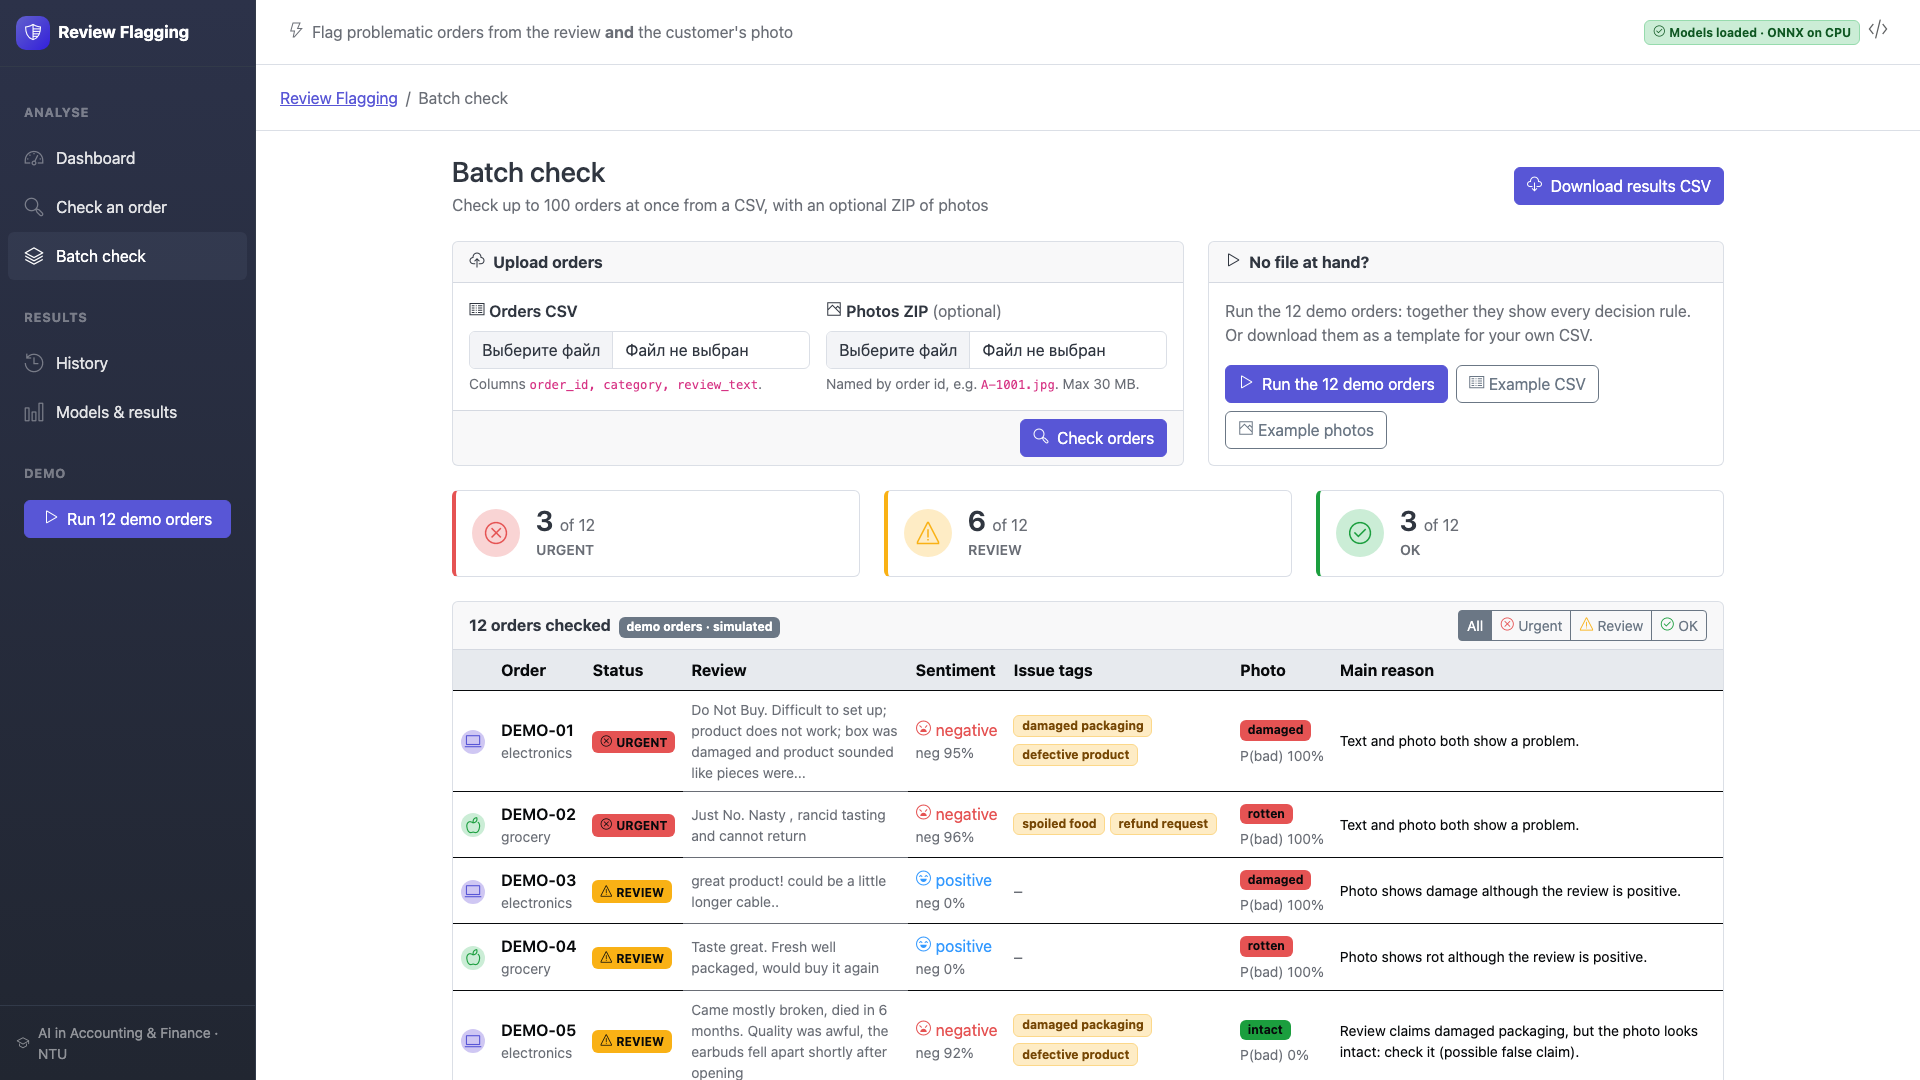
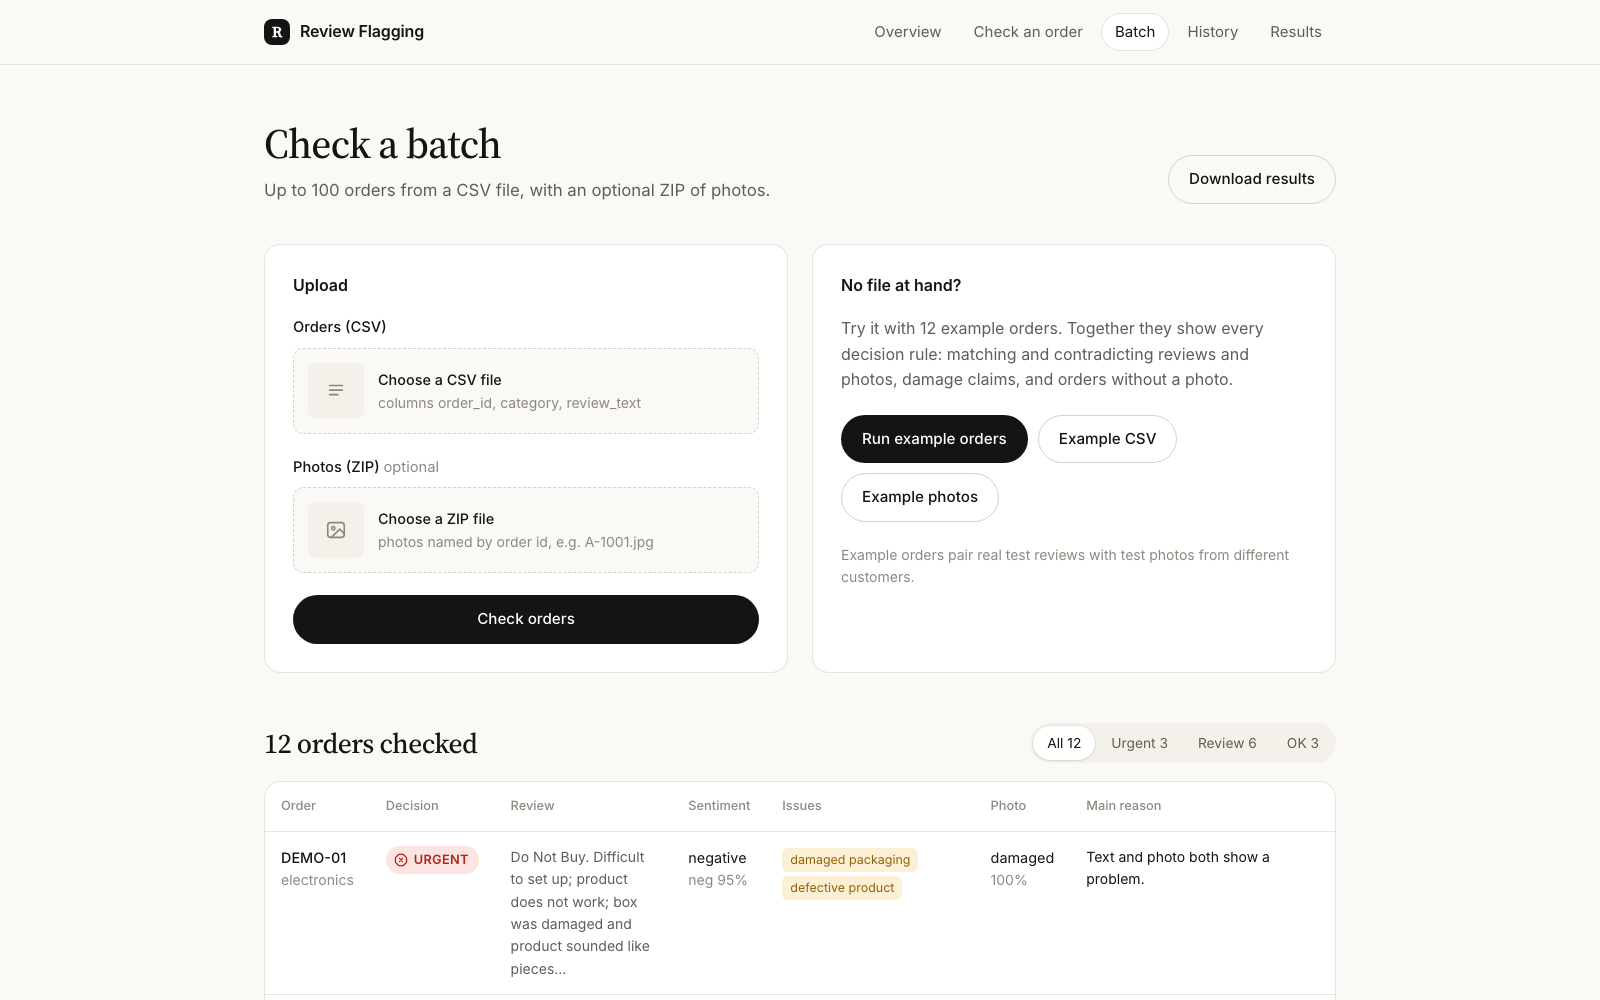
Polish: clearer comments, no internal references in public code, refreshed screenshots

diff --git a/scripts/make_notebooks.py b/scripts/make_notebooks.py
@@ -335,7 +335,7 @@ print("Images per fruit and class:"); display(produce["subtype_counts"])"""),
   and "damaged" mostly brown shipping cardboard (plus some label noise); the Kaggle packages are 3D renders of one box
   on one conveyor belt. A model could learn "brown cardboard = damaged". We therefore added **BoxCondition**, where both
   classes are brown cardboard boxes (650 damaged / 649 intact after copy removal), so the model has to learn the damage
-  itself. Grad-CAM in Phase 4 will show where the model looks, and results are reported per source.
+  itself. Grad-CAM in the Colab image notebooks shows where the model looks, and results are reported per source.
 """),
     ]
 
@@ -524,7 +524,7 @@ for name in ["small_cnn", "mobilenetv2"]:
               f"results/figures/cm_image_{domain}_{{name}}.png",
               f"results/figures/history_{domain}_{{name}}.png",
               f"results/figures/gradcam_{domain}_{{name}}.png"]
-files.append("models/train/image_{domain}_mobilenetv2.keras")   # needed for the website (Phase 5)
+files.append("models/train/image_{domain}_mobilenetv2.keras")   # needed for the website (ONNX export)
 for f in files:
     dst = DRIVE / f
     dst.parent.mkdir(parents=True, exist_ok=True)
@@ -568,7 +568,7 @@ FINDINGS_IMAGE = {
 - **Rot is easy to see:** even the CNN from scratch reaches 0.94, and MobileNetV2 0.977 with no false alarms on the test set.
 - **Per fruit (MobileNetV2):** banana 1.000, orange 0.978, apple 0.952. Grad-CAM highlights the brown/mouldy patches.
 - **Fine-tuning helped** (validation loss 0.06 → 0.045), so the fine-tuned model is kept.
-- These scores are honest only because 84% of the original images (copies) were removed in Phase 3; with copies in the
+- These scores are honest only because 84% of the original images (copies) were removed in notebook 04; with copies in the
   test set the numbers would look even higher but mean less.
 """,
 }

diff --git a/scripts/check_memory.py b/scripts/check_memory.py
@@ -1,10 +1,10 @@
-"""Measure the website's peak memory (RAM) the way Render will run it: gunicorn, 1 worker.
+"""Measure the website's peak memory (RAM) the way the hosting server runs it: gunicorn, 1 worker.
 
 Usage:  python scripts/check_memory.py
 
 Starts gunicorn on a free port, then does what a visitor does: opens every page, checks one order
-with a photo, runs the 12 demo orders as a batch. Meanwhile it samples the memory (RSS) of the
-gunicorn processes every 0.1 s. Render's free tier has 512 MB; our target is < 450 MB.
+with a photo, runs the 12 example orders as a batch. Meanwhile it samples the memory (RSS) of the
+gunicorn processes every 0.1 s. Heroku Basic and Render's free plan have 512 MB; our target is < 450 MB.
 """
 
 from __future__ import annotations
@@ -94,7 +94,7 @@ def main() -> None:
         post_multipart(base + "/check", {"review_text": "The box arrived crushed and I want a refund.",
                                          "category": "electronics"}, {"photo": ("p.jpg", photo, "image/jpeg")})
         one_order_s = time.time() - t
-        step["name"] = "batch: 12 demo orders"
+        step["name"] = "batch: 12 example orders"
         t = time.time()
         post_multipart(base + "/batch", {"action": "demo"}, {})
         batch_s = time.time() - t
@@ -108,7 +108,7 @@ def main() -> None:
     peak = max(samples, key=lambda s: s[2])
     print(f"start-up (models loaded):  {startup_s:5.1f} s, {after_start:6.1f} MB")
     print(f"one order with photo:      {one_order_s:5.2f} s")
-    print(f"batch of 12 demo orders:   {batch_s:5.2f} s")
+    print(f"batch of 12 example orders: {batch_s:5.2f} s")
     print(f"PEAK memory:               {peak[2]:6.1f} MB (during: {peak[1]})")
     print(f"target < {TARGET_MB} MB -> {'OK' if peak[2] < TARGET_MB else 'TOO HIGH'}")
 

diff --git a/src/data_text.py b/src/data_text.py
@@ -3,7 +3,7 @@
 Run everything:   python -m src.data_text
 Or step by step from notebooks/01_text_data.ipynb.
 
-Unified schema (CLAUDE.md 5.1): review_id, source, category, text, rating, label
+Unified schema: review_id, source, category, text, rating, label
 plus `text_classical` (the heavier cleaning for Naive Bayes / TF-IDF, see preprocess_text.py).
 """
 
@@ -91,7 +91,7 @@ def load_flipkart() -> pd.DataFrame:
     Why not `Review`: it is not written by customers. Flipkart picks it from the star
     rating ("terrific" = 5 stars in 99% of rows, "delightful" = 4 stars). Training on it
     would teach the model to read the star rating, not the sentiment.
-    Why not `Sentiment`: it was made by the VADER tool, not by people (CLAUDE.md 5.1).
+    Why not `Sentiment`: it was made by the VADER tool, not by people, so it isn't a real label.
     `Rate` has 3 broken rows that contain product names; to_numeric turns them into NaN.
     """
     src = load_config()["text"]["sources"]["flipkart"]

diff --git a/src/text_models.py b/src/text_models.py
@@ -10,9 +10,12 @@ Models, from simplest to most complex:
     TextBlobModel       rule-based polarity score, no training (course baseline)
     NaiveBayesModel     word counts + Multinomial Naive Bayes
     TfidfLogRegModel    TF-IDF of words and word pairs + Logistic Regression
-    MiniLMLogRegModel   MiniLM sentence embeddings + Logistic Regression  <- deployed in the app
+    MiniLMLogRegModel   MiniLM sentence embeddings + Logistic Regression (first plan for the website)
     HFBenchmarkModel    ready-made sentiment models from Hugging Face, used as they are
     finetune_transformer()  fine-tunes DistilBERT / RoBERTa on our data (Colab, GPU)
+
+The website uses the fine-tuned DistilBERT (exported to 8-bit ONNX by src/export_onnx.py): it scored
+0.768 macro-F1 vs 0.696 for MiniLM + LR and still fits the 512 MB server.
 """
 
 from __future__ import annotations

diff --git a/src/image_models.py b/src/image_models.py
@@ -10,7 +10,7 @@ Each trainable model is built as two parts:
     core      = preprocessing + network + softmax head. Takes raw RGB pixels 0-255. This is what we
                 save and export to ONNX, so the website only has to resize the photo.
     augmenter = random flips/rotations/zoom/brightness, used only while training.
-Keeping augmentation out of `core` matters for the ONNX export (Phase 5): random layers are
+Keeping augmentation out of `core` matters for the ONNX export (src/export_onnx.py): random layers are
 training-only and some converters can't handle them.
 
 Outputs are 2 probabilities [P(good), P(bad)]; "bad" = damaged / rotten.

diff --git a/src/fusion.py b/src/fusion.py
@@ -312,7 +312,7 @@ def tune_weights(scored_val, tolerance: float = 0.01) -> tuple[dict, float, dict
 # ------------------------------------------------------------ experiment + plots --
 
 def run_fusion_experiment(predictor=None, save: bool = True) -> dict:
-    """Whole Phase 6 experiment: build simulated orders, score them with the deployed models,
+    """The whole fusion experiment: build simulated orders, score them with the deployed models,
     tune weights on the validation orders, and compare strategies on the test orders.
 
     Saves results/fusion_simulated_test.csv (every test order with its decision) and the numbers

diff --git a/app/db.py b/app/db.py
@@ -1,7 +1,7 @@
 """SQLite log of every prediction the website makes (shown on the History page).
 
-SQLite is a single file and needs no server, which suits a demo. On Render the file is reset on
-every redeploy, which is fine for a demo (noted in the README).
+SQLite is a single file and needs no server, which suits a demo. On Heroku (and Render) the file lives on
+the server's temporary disk and resets on every restart or redeploy, which is fine for a demo (noted in the README).
 """
 
 from __future__ import annotations

diff --git a/src/config.py b/src/config.py
@@ -1,8 +1,8 @@
 """Load config.yaml and give every module the same settings and paths.
 
-Why: CLAUDE.md forbids hard-coded absolute paths. Every script and notebook calls
+Why: no file in the project uses hard-coded absolute paths. Every script and notebook calls
 `load_config()` and `path(...)`, so the project runs the same on my Mac, on Colab
-and on Render, no matter which folder it was cloned into.
+and on the hosting server, no matter which folder it was cloned into.
 """
 
 from __future__ import annotations

diff --git a/scripts/download_data.py b/scripts/download_data.py
@@ -52,7 +52,7 @@ def _already_done(folder: Path, name: str) -> bool:
 
 
 def _too_big(size_bytes: int | None, name: str, allow_large: bool) -> bool:
-    """Stop before huge downloads unless the user said --allow-large (CLAUDE.md rule: ask > 2 GB)."""
+    """Stop before huge downloads (above download.max_size_gb in config.yaml) unless --allow-large is given."""
     limit_gb = load_config()["download"]["max_size_gb"]
     if size_bytes is None:
         print(f"[warn] {name}: size unknown, continuing")

diff --git a/src/inference.py b/src/inference.py
@@ -33,7 +33,7 @@ def _session(file: Path, threads: int):
     import onnxruntime as ort
 
     opts = ort.SessionOptions()
-    opts.intra_op_num_threads = threads  # the free Render server has a fraction of one CPU
+    opts.intra_op_num_threads = threads  # small hosting plans give us about one CPU or less
     opts.inter_op_num_threads = 1
     return ort.InferenceSession(str(file), opts, providers=["CPUExecutionProvider"])
 

diff --git a/src/data_images.py b/src/data_images.py
@@ -1,6 +1,6 @@
 """Build the image datasets: index raw photos -> check -> remove near-duplicates -> resize -> split.
 
-Two domains (CLAUDE.md 5.2), one binary model each:
+Two domains, one binary model each:
     packages: damaged vs intact   (Kaggle renders + 2 Roboflow sets, merged) -> shipping damage
     produce:  rotten  vs fresh    (Kaggle fruits, fruit type kept as metadata) -> product defects
 

diff --git a/tests/test_fusion.py b/tests/test_fusion.py
@@ -1,4 +1,4 @@
-"""Tests for the fusion rules (CLAUDE.md section 6, Phase 6). They use fixed inputs, no models."""
+"""Tests for the fusion rules (src/fusion.py). They use fixed inputs, no models."""
 
 import pytest
 
